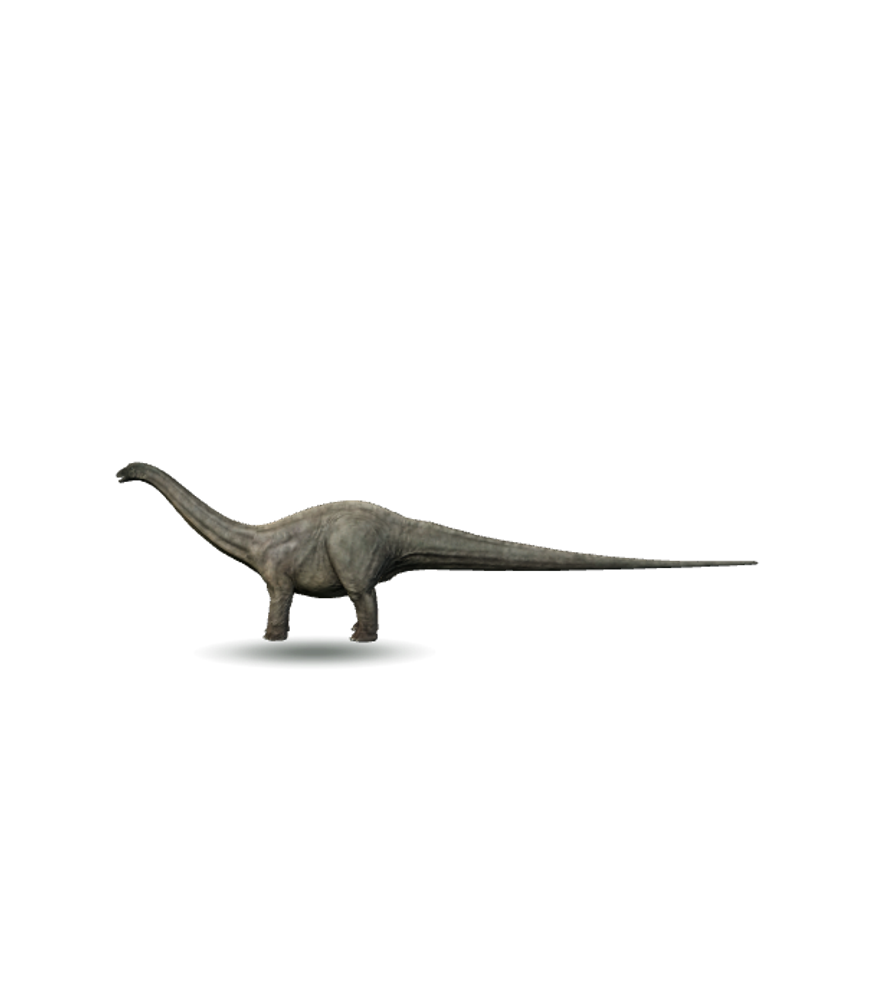
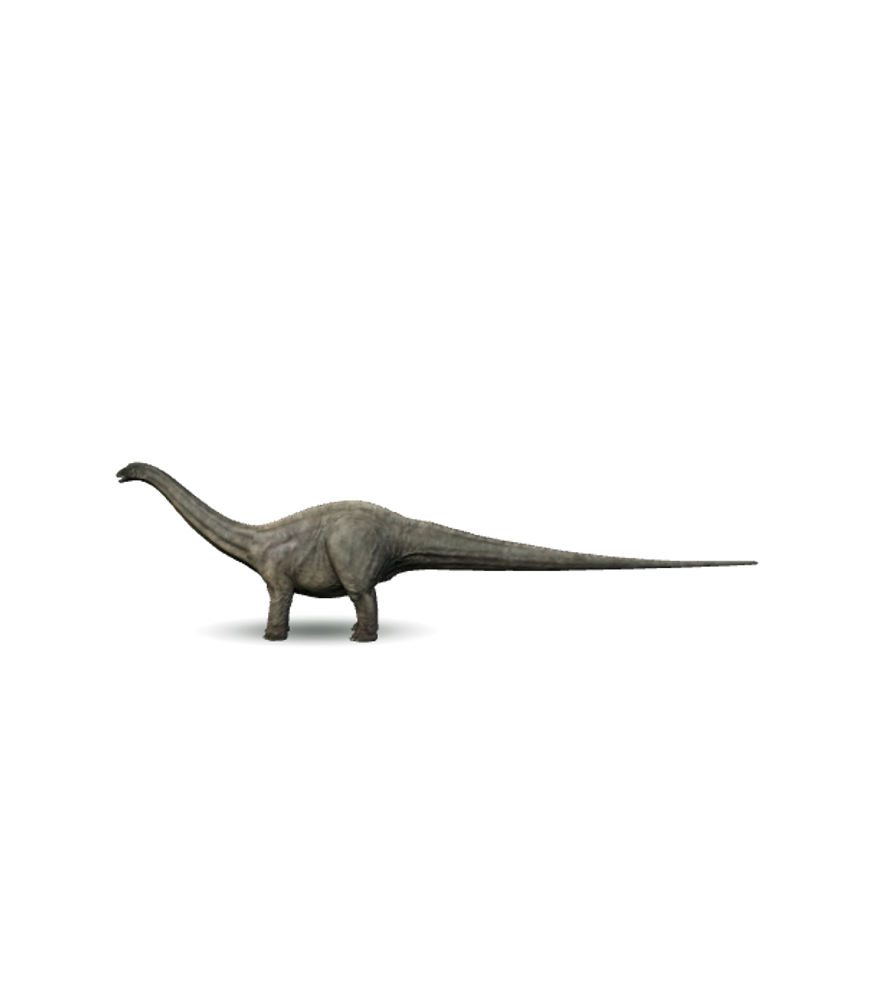
fix: ground Apatosaurus contact shadow (#5)

Changed region(s): [[0.2469, 0.62, 0.4629, 0.682]]

diff --git a/tests/viewer.test.ts b/tests/viewer.test.ts
@@ -278,11 +278,12 @@ describe('model bounds and contact shadow', () => {
       0.38,
       {
         depthScale: 0.9,
-        horizontalOffset: -0.62,
+        horizontalOffset: -0.61,
+        yOffset: 0.11,
       },
     )
 
-    expect(layout.position.toArray()).toEqual([-0.62, 0.006, 0])
+    expect(layout.position.toArray()).toEqual([-0.61, 0.116, 0])
     expect(layout.scale.x).toBeCloseTo(1.216)
     expect(layout.scale.y).toBeCloseTo(0.3888)
     expect(layout.scale.z).toBe(1)

diff --git a/tests/review-catalog.test.ts b/tests/review-catalog.test.ts
@@ -662,9 +662,10 @@ describe('local collection review catalog', () => {
       portraitVerticalOffset: 0.05,
       shadow: 'ground',
       shadowDepthScale: 0.9,
-      shadowHorizontalOffset: -0.62,
+      shadowHorizontalOffset: -0.61,
       shadowOpacity: 0.56,
       shadowScale: 0.38,
+      shadowYOffset: 0.11,
       toneMappingExposure: 1.28,
     })
   })

diff --git a/src/content/animals/apatosaurus/package.ts b/src/content/animals/apatosaurus/package.ts
@@ -19,9 +19,10 @@ export const animalDefinition = definePublishedAnimal({
     safeAreaPadding: 0.12,
     shadow: 'ground',
     shadowDepthScale: 0.9,
-    shadowHorizontalOffset: -0.62,
+    shadowHorizontalOffset: -0.61,
     shadowOpacity: 0.56,
     shadowScale: 0.38,
+    shadowYOffset: 0.11,
     toneMappingExposure: 1.28,
   },
   animation: {

diff --git a/src/review/animals/apatosaurus/package.ts b/src/review/animals/apatosaurus/package.ts
@@ -20,9 +20,10 @@ export const animal = {
     safeAreaPadding: 0.12,
     shadow: 'ground',
     shadowDepthScale: 0.9,
-    shadowHorizontalOffset: -0.62,
+    shadowHorizontalOffset: -0.61,
     shadowOpacity: 0.56,
     shadowScale: 0.38,
+    shadowYOffset: 0.11,
     toneMappingExposure: 1.28,
   },
   animation: {
